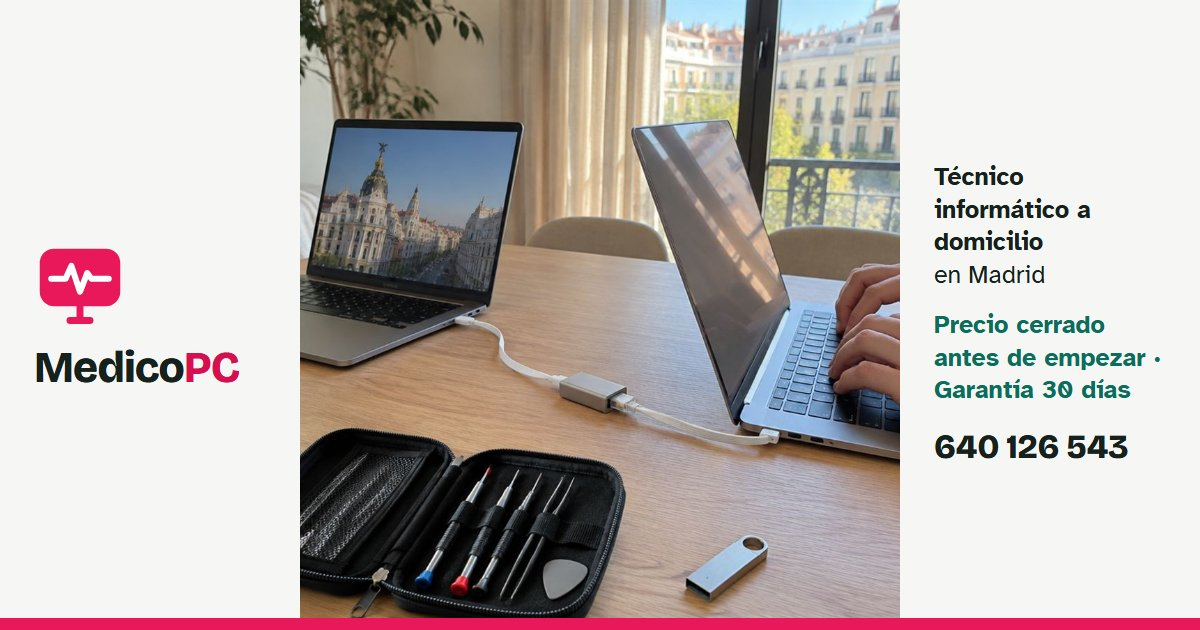
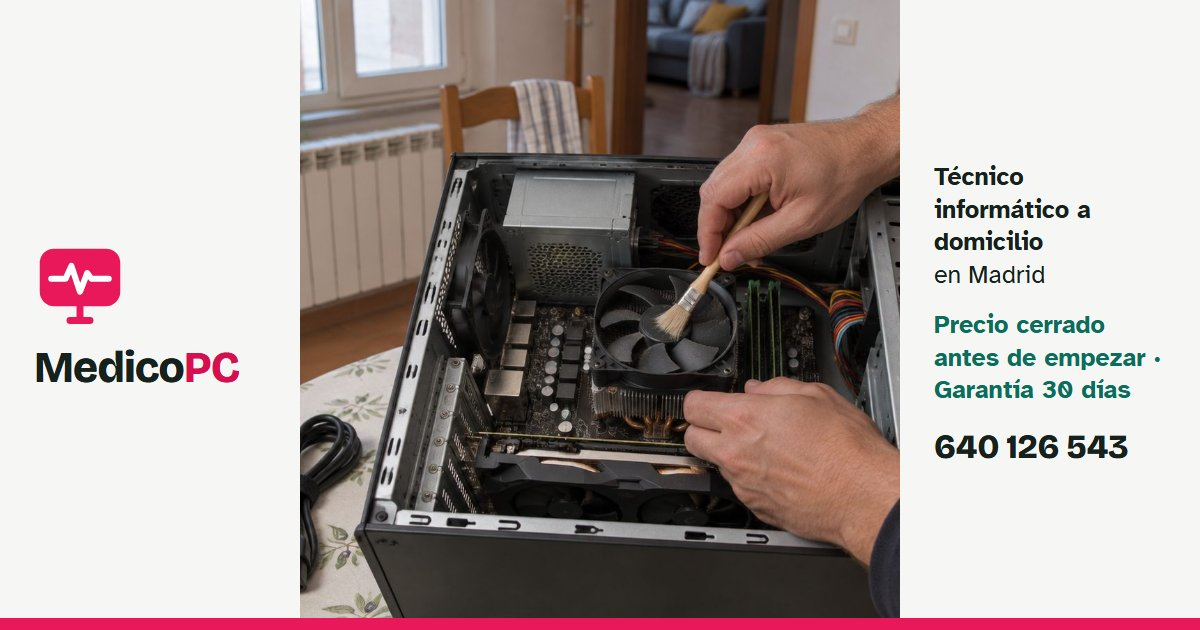
Fotos nuevas de la web, revisadas una a una (sin cables ni conectores incoherentes) e imagen al compartir con la nueva portada
Claude-Session: https://claude.ai/code/session_01Gpx6EDcubUCwCXu7Y8wnu4

diff --git a/index.html b/index.html
@@ -25,7 +25,7 @@
   "name": "MedicoPC",
   "description": "Técnico informático a domicilio en Madrid y alrededores: reparación, puesta a punto y recuperación de datos con precio cerrado.",
   "url": "https://medicopc.es/",
-  "image": "https://medicopc.es/img/casa.jpg",
+  "image": "https://medicopc.es/img/portada.jpg",
   "telephone": "+34640126543",
   "email": "hola@medicopc.es",
   "priceRange": "€€",
@@ -195,7 +195,7 @@ footer .nota-visitas { display: block; margin-top: 8px; }
         </div>
       </div>
       <figure>
-        <img class="foto" src="img/casa.jpg" width="1200" height="904" alt="Portátil del técnico conectado por cable al portátil de un cliente, en un salón luminoso de Madrid">
+        <img class="foto" src="img/portada.jpg" width="1200" height="904" alt="Manos de un técnico limpiando el ventilador de un ordenador de sobremesa abierto, en la mesa de una casa">
       </figure>
     </div>
   </section>
@@ -303,7 +303,7 @@ footer .nota-visitas { display: block; margin-top: 8px; }
       <h2>Tres tipos de visita.</h2>
       <div class="caminos">
         <article class="camino">
-          <img class="foto" src="img/limpieza.jpg" width="1200" height="904" loading="lazy" alt="Limpieza del ventilador de un portátil moderno con soplador y pincel" style="border-radius: 0">
+          <img class="foto" src="img/mayores.jpg" width="1200" height="904" loading="lazy" alt="Una señora mayor con una tablet y alguien a su lado señalándole un icono grande" style="border-radius: 0">
           <div class="cuerpo">
             <h3>Para mayores (y para sus hijos)</h3>
             <p>Voy sin prisas, lo explico las veces que haga falta y dejo las cosas apuntadas en papel.</p>
@@ -312,7 +312,7 @@ footer .nota-visitas { display: block; margin-top: 8px; }
           </div>
         </article>
         <article class="camino">
-          <img class="foto" src="img/gaming.jpg" width="1200" height="904" loading="lazy" alt="Escritorio gaming con monitor curvo y torre con cristal" style="border-radius: 0">
+          <img class="foto" src="img/gamer.jpg" width="1200" height="904" loading="lazy" alt="Pasta térmica nueva en el procesador de un PC gaming, con el disipador al lado" style="border-radius: 0">
           <div class="cuerpo">
             <h3>Para gamers</h3>
             <p>Mido tu juego antes y después, con la misma escena, y te dejo las cifras por escrito para que veas la diferencia.</p>
@@ -320,7 +320,7 @@ footer .nota-visitas { display: block; margin-top: 8px; }
           </div>
         </article>
         <article class="camino">
-          <img class="foto" src="img/oficina.jpg" width="1200" height="904" loading="lazy" alt="El técnico explica algo en la pantalla a la dueña de un pequeño estudio" style="border-radius: 0">
+          <img class="foto" src="img/negocio.jpg" width="1200" height="904" loading="lazy" alt="El técnico señala la pantalla del ordenador en el mostrador de una tienda de barrio" style="border-radius: 0">
           <div class="cuerpo">
             <h3>Para pequeños negocios</h3>
             <p>Despachos, comercios y talleres de 2 a 10 ordenadores. Sin permanencia.</p>
